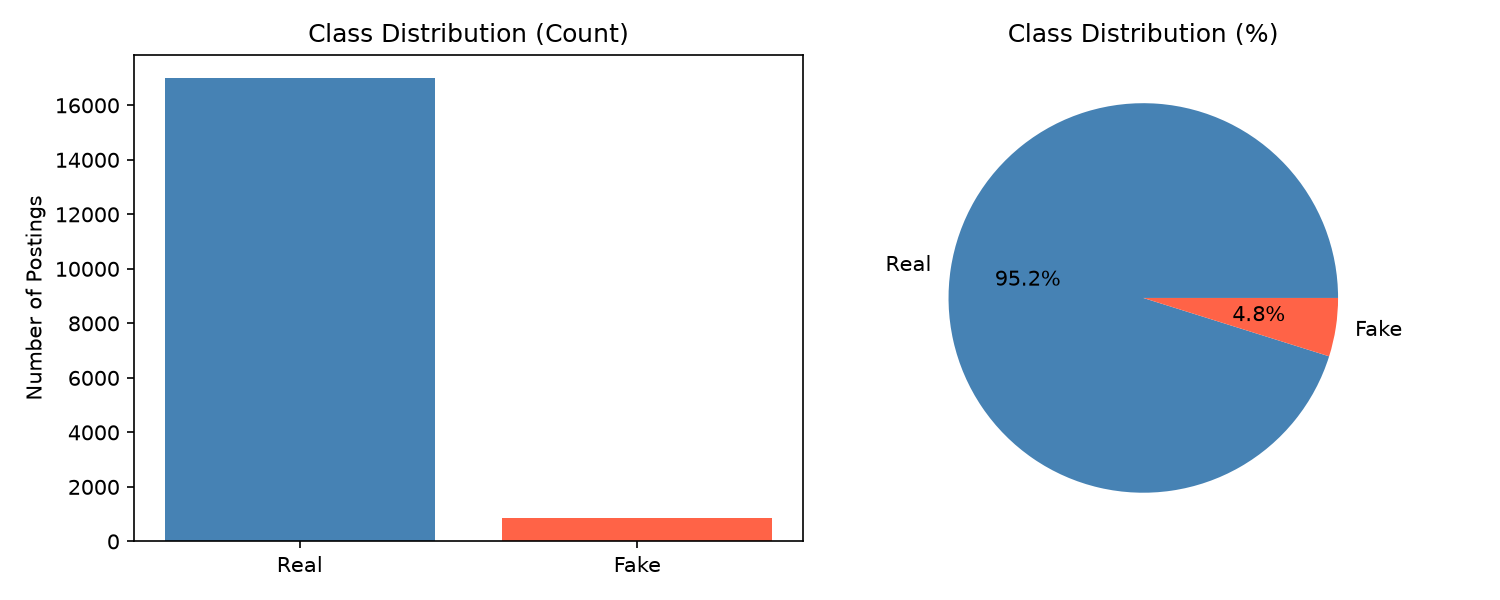
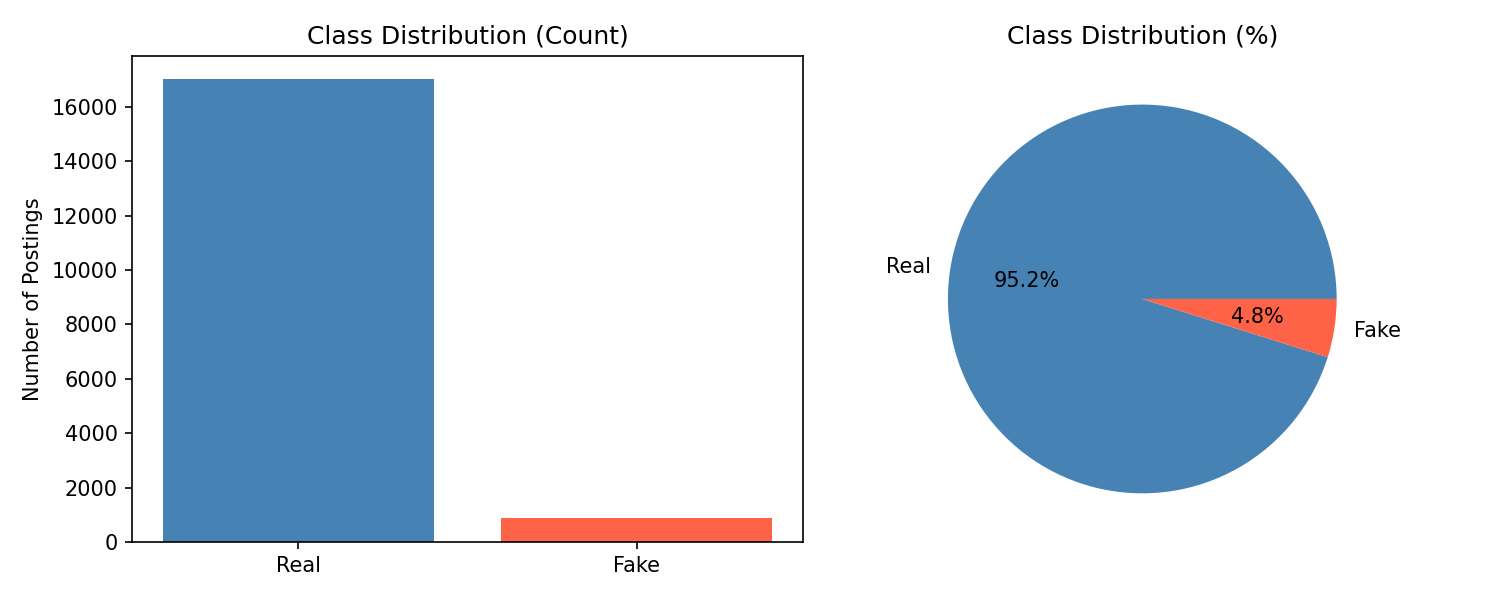
fix the stats

diff --git a/README.md b/README.md
@@ -1,100 +1,6 @@
 # Fake Job Postings Detection using DistilBERT
 
-An NLP classifier that detects fraudulent job postings using fine-tuned DistilBERT, with full evaluation metrics and TensorBoard visualization.
-
----
-
-## Project Structure
-
-```
-fake_job_detection/
-├── data/                        # Dataset and generated plots
-│   └── fake_job_postings.csv    # Download from Kaggle (see Setup)
-├── models/
-│   ├── tokenizer/               # Saved DistilBERT tokenizer
-│   └── best_model/              # Best checkpoint (saved by val F1)
-├── notebooks/
-│   ├── 01_EDA.ipynb             # Exploratory data analysis
-│   ├── 02_Tokenization.ipynb    # Tokenization walkthrough
-│   ├── 03_Training.ipynb        # Fine-tuning DistilBERT
-│   └── 04_Evaluation.ipynb      # Metrics, confusion matrix, misclassifications
-├── tensorboard_logs/            # TensorBoard event files
-├── requirements.txt
-└── README.md
-```
-
----
-
-## Setup
-
-```bash
-# 1. Clone the repo
-git clone <repo-url>
-cd fake_job_detection
-
-# 2. Create a virtual environment
-python -m venv venv
-source venv/bin/activate   # Windows: venv\Scripts\activate
-
-# 3. Install dependencies
-pip install -r requirements.txt
-
-# 4. Download the dataset
-#    → https://www.kaggle.com/datasets/shivamb/real-or-fake-fake-jobposting-prediction
-#    → Place fake_job_postings.csv in the data/ folder
-
-# 5. Run notebooks in order
-jupyter lab
-```
-
----
-
-## Run Notebooks in Order
-
-| Notebook | What it does |
-|----------|-------------|
-| `01_EDA.ipynb` | Explores the dataset, class imbalance, text lengths |
-| `02_Tokenization.ipynb` | Explains and demonstrates DistilBERT tokenization |
-| `03_Training.ipynb` | Fine-tunes DistilBERT with weighted loss for imbalance |
-| `04_Evaluation.ipynb` | Full evaluation: F1, AUC-ROC, confusion matrix, PR curve |
-
----
-
-## View TensorBoard
-
-```bash
-tensorboard --logdir tensorboard_logs
-# Open http://localhost:6006
-```
-
----
-
-## Dataset
-
-**Source:** [Kaggle — Real or Fake Job Posting Prediction](https://www.kaggle.com/datasets/shivamb/real-or-fake-fake-jobposting-prediction)
-
-- ~17,880 job postings
-- ~17,000 real (95%) / ~800 fake (5%) — heavily imbalanced
-- Features: title, company_profile, description, requirements, benefits, location, and more
-
----
-
-## Key Design Decisions
-
-### 1. Class Imbalance → Weighted Cross-Entropy Loss
-The dataset is ~95% real / ~5% fake. A naive model predicting "real" for everything achieves 95% accuracy but detects zero fraud. We use **weighted cross-entropy loss** to penalize false negatives on the minority class more heavily.
-
-### 2. Multiple Text Fields Combined
-Rather than using only the job description, we concatenate: title + company profile + description + requirements + benefits. This gives the model more signal.
-
-### 3. Stratified Train/Val/Test Split
-With only ~800 fake examples, a random split could produce validation sets with too few fakes to measure performance reliably. Stratified splitting preserves the class ratio in every split.
-
-### 4. Model Saved on F1, Not Accuracy
-The best checkpoint is chosen based on **macro F1** on the validation set — not accuracy — since accuracy is misleading for imbalanced data.
-
-### 5. Linear LR Warmup + Decay
-Standard for transformer fine-tuning. The first 10% of training steps linearly increase the LR from 0 to peak, then decay. This prevents early large updates from destabilizing pre-trained weights.
+A binary text classifier that detects fraudulent job postings using fine-tuned DistilBERT, with weighted loss to handle class imbalance and full evaluation via TensorBoard.
 
 ---
 
@@ -102,12 +8,163 @@ Standard for transformer fine-tuning. The first 10% of training steps linearly i
 
 | Metric | Value |
 |--------|-------|
-| Accuracy | — |
-| Macro F1 | — |
-| Fake Recall | — |
-| AUC-ROC | — |
+| Accuracy | 99% |
+| Macro F1 | 0.96 |
+| Fake Precision | 0.93 |
+| Fake Recall | 0.93 |
+| Fake F1 | 0.93 |
+| AUC-ROC | 0.989 |
+| Average Precision (PR) | 0.955 |
 
-*(Fill in after running)*
+**Test set:** 1,788 samples — 1,702 real / 86 fake  
+**False Negatives (fake jobs missed):** 6 out of 86  
+**False Positives (real jobs flagged):** 6 out of 1,702
+
+---
+
+## Dataset
+
+**Source:** [Kaggle — Real or Fake Job Posting Prediction](https://www.kaggle.com/datasets/shivamb/real-or-fake-fake-jobposting-prediction)
+
+- 17,880 total job postings
+- 17,014 real (95.2%) / 866 fake (4.8%) — heavily imbalanced
+- Features used: title, company profile, description, requirements, benefits
+
+### Class Distribution
+
+![Class Distribution](data/class_distribution.png)
+
+---
+
+## Model & Approach
+
+### Why DistilBERT?
+DistilBERT (Hugging Face) is a distilled, compressed version of Google's BERT. It is:
+- **Bidirectional** — reads text left-to-right and right-to-left simultaneously, giving full context to every token
+- **40% smaller** than BERT, **60% faster**, retaining 97% of BERT's language understanding
+- Pre-trained on Wikipedia + BookCorpus — it already understands language deeply before we fine-tune it
+
+### Fine-Tuning
+We add a linear classification head on top of DistilBERT and train the full model on our task. This is **transfer learning** — we reuse DistilBERT's pre-trained language knowledge instead of learning from scratch.
+
+### Key Design Decisions
+
+**1. Multiple text fields combined**  
+Rather than using only the job description, we concatenate: title + company profile + description + requirements + benefits. More signal = better detection.
+
+**2. Weighted cross-entropy loss for class imbalance**  
+With 95.2% real / 4.8% fake, a naive model predicting "real" for everything achieves 95% accuracy but catches zero fraud. We compute per-class weights so fake job mistakes are penalised ~19.6x more than real job mistakes, forcing the model to actually learn the minority class.
+
+```
+weight_for_class_i = total_samples / (n_classes × samples_in_class_i)
+→ Weight Real: 0.525 | Weight Fake: 10.320
+```
+
+**3. Stratified train/val/test split**  
+With only ~866 fake examples, a random split risks too few fakes in validation. Stratified splitting preserves the class ratio across all three splits (train: 4.8%, val: 4.9%, test: 4.8%).
+
+**4. Linear LR warmup + decay**  
+Standard for transformer fine-tuning. The first 10% of training steps (268 of 2,682) linearly increase the LR from 0 to peak (2e-5), then decay. Prevents large early gradient updates from destabilising pre-trained weights.
+
+**5. Best model saved on macro F1, not accuracy**  
+Accuracy is misleading for imbalanced data. The checkpoint is saved whenever validation macro F1 improves.
+
+---
+
+## Evaluation
+
+### Confusion Matrix
+
+![Confusion Matrix](data/confusion_matrix.png)
+
+| | Predicted Real | Predicted Fake |
+|---|---|---|
+| **Actual Real** | 1696 ✓ | 6 ✗ |
+| **Actual Fake** | 6 ✗ | 80 ✓ |
+
+### Precision-Recall & ROC Curves
+
+![PR and ROC Curves](data/pr_roc_curves.png)
+
+- **AP = 0.955** — the model maintains high precision across almost all recall levels
+- **AUC = 0.989** — strong overall discriminative ability
+
+### Text Length Analysis
+
+![Text Length](data/text_length_distribution.png)
+![Token Length](data/token_length_distribution.png)
+
+Most descriptions fall within DistilBERT's 512-token limit. Combined fields (title + profile + description + requirements + benefits) do frequently hit the limit, which is handled via truncation.
+
+---
+
+## Project Structure
+
+```
+fake_job_detection/
+├── data/
+│   └── fake_job_postings.csv        ← download from Kaggle (see Setup)
+├── models/
+│   ├── tokenizer/                   ← created by notebook 2
+│   └── best_model/                  ← best checkpoint saved during training
+├── notebooks/
+│   ├── 01_EDA.ipynb                 ← data exploration and preprocessing
+│   ├── 02_Tokenization.ipynb        ← tokenization walkthrough
+│   ├── 03_Training.ipynb            ← fine-tuning DistilBERT
+│   └── 04_Evaluation.ipynb          ← metrics, confusion matrix, PR/ROC curves
+├── tensorboard_logs/                ← training logs
+├── setup.py                         ← installs all dependencies automatically
+└── README.md
+```
+
+---
+
+## Setup & Usage
+
+### Prerequisites
+- Python 3.10+
+- NVIDIA GPU recommended (RTX 3060 or better). CPU training is possible but takes many hours.
+
+### Step 1 — Get the dataset
+Download `fake_job_postings.csv` from [Kaggle](https://www.kaggle.com/datasets/shivamb/real-or-fake-fake-jobposting-prediction) and place it in the `data/` folder.
+
+### Step 2 — Install dependencies
+```bash
+python setup.py
+```
+This installs all packages including CUDA-enabled PyTorch and verifies your GPU.
+
+### Step 3 — Run notebooks in order
+
+| Notebook | What it does | Output |
+|----------|-------------|--------|
+| `01_EDA.ipynb` | EDA, class analysis, text preprocessing | `data/processed.csv` |
+| `02_Tokenization.ipynb` | Tokenization walkthrough | `models/tokenizer/` |
+| `03_Training.ipynb` | Fine-tunes DistilBERT (3 epochs) | `models/best_model/` |
+| `04_Evaluation.ipynb` | Full evaluation on test set | Plots + metrics |
+
+### Step 4 — View TensorBoard
+```bash
+tensorboard --logdir tensorboard_logs
+# Open http://localhost:6006
+```
+
+---
+
+## Training Configuration
+
+| Parameter | Value |
+|-----------|-------|
+| Model | distilbert-base-uncased |
+| Max token length | 256 |
+| Batch size | 16 |
+| Epochs | 3 |
+| Learning rate | 2e-5 |
+| LR warmup | 10% of steps |
+| Optimizer | AdamW (weight_decay=0.01) |
+| Loss | Weighted Cross-Entropy |
+| Seed | 42 |
+| Training samples | 14,304 |
 
 ---
 
